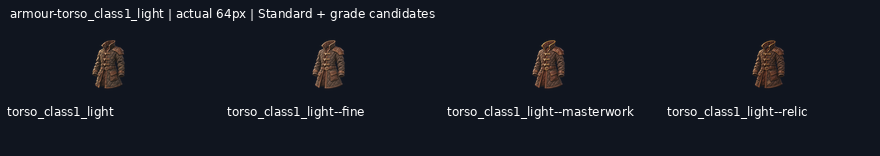
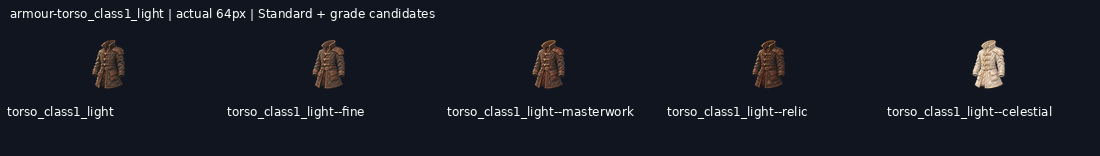
art: draw armour-torso_class1_light--celestial grade candidate

diff --git a/art/_archive/gear/2026-11-19-kept-blade-grades/HANDOFF.md b/art/_archive/gear/2026-11-19-kept-blade-grades/HANDOFF.md
@@ -1,9 +1,9 @@
 # Kept-blade grade candidates
 
-**64/120 grade candidates delivered** on `art/2026-11-19-kept-blade-grades`. Shared mailbox: https://github.com/leonpentastorm/Project-Heaven-Cry/issues/3 . See claim.json for this lane’s current Standards. Released overlapping blades reuse12 peer candidates, with3 local alternatives archived.
+**65/120 grade candidates delivered** on `art/2026-11-19-kept-blade-grades`. Shared mailbox: https://github.com/leonpentastorm/Project-Heaven-Cry/issues/3 . See claim.json for this lane’s current Standards. Released overlapping blades reuse12 peer candidates, with3 local alternatives archived.
 
 Leon requested continuous candidate production; proof approval is not fabricated. All candidates remain review-candidate, production_approved:false, implementation_ready:false, with outline.review_required:true. Exact outline is measured, never asserted unless the masks match. Per-image registration is uniform scaling/translation only, without warp, silhouette masks, filled pixels or code-drawn substitutes. The generated native remains untouched.
 
 Each image is generated, shown, technically exported, validated, committed and pushed before the next. Sources, versioned masters, exact prompts/reference hashes,256/128/64/32 exports and grade comparison sheets are retained. Standards and earlier deliveries are unchanged. This sparse checkout cannot validate omitted historical files; full-library validation/build is an integration check on a full checkout.
 
-Remaining: weapon-ork_machete--masterwork, weapon-ork_machete--relic, weapon-ork_machete--celestial, weapon-war_axe--fine, weapon-war_axe--masterwork, weapon-war_axe--relic, weapon-war_axe--celestial, armour-torso_class1_light--celestial, armour-torso_class2_medium--fine, armour-torso_class2_medium--masterwork, armour-torso_class2_medium--relic, armour-torso_class2_medium--celestial, armour-torso_class3_heavy--fine, armour-torso_class3_heavy--masterwork, armour-torso_class3_heavy--relic, armour-torso_class3_heavy--celestial, armour-torso_class4_assault--fine, armour-torso_class4_assault--masterwork, armour-torso_class4_assault--relic, armour-torso_class4_assault--celestial, armour-torso_class5_juggernaut--fine, armour-torso_class5_juggernaut--masterwork, armour-torso_class5_juggernaut--relic, armour-torso_class5_juggernaut--celestial, armour-padded_undershirt--fine, armour-padded_undershirt--masterwork, armour-padded_undershirt--relic, armour-padded_undershirt--celestial, armour-trauma_plate--fine, armour-trauma_plate--masterwork, armour-trauma_plate--relic, armour-trauma_plate--celestial, armour-runner_trousers--fine, armour-runner_trousers--masterwork, armour-runner_trousers--relic, armour-runner_trousers--celestial, armour-armoured_greaves--fine, armour-armoured_greaves--masterwork, armour-armoured_greaves--relic, armour-armoured_greaves--celestial, armour-work_gloves--fine, armour-work_gloves--masterwork, armour-work_gloves--relic, armour-work_gloves--celestial, armour-combat_gloves--fine, armour-combat_gloves--masterwork, armour-combat_gloves--relic, armour-combat_gloves--celestial, armour-field_boots--fine, armour-field_boots--masterwork, armour-field_boots--relic, armour-field_boots--celestial, armour-heavy_boots--fine, armour-heavy_boots--masterwork, armour-heavy_boots--relic, armour-heavy_boots--celestial.
+Remaining: weapon-ork_machete--masterwork, weapon-ork_machete--relic, weapon-ork_machete--celestial, weapon-war_axe--fine, weapon-war_axe--masterwork, weapon-war_axe--relic, weapon-war_axe--celestial, armour-torso_class2_medium--fine, armour-torso_class2_medium--masterwork, armour-torso_class2_medium--relic, armour-torso_class2_medium--celestial, armour-torso_class3_heavy--fine, armour-torso_class3_heavy--masterwork, armour-torso_class3_heavy--relic, armour-torso_class3_heavy--celestial, armour-torso_class4_assault--fine, armour-torso_class4_assault--masterwork, armour-torso_class4_assault--relic, armour-torso_class4_assault--celestial, armour-torso_class5_juggernaut--fine, armour-torso_class5_juggernaut--masterwork, armour-torso_class5_juggernaut--relic, armour-torso_class5_juggernaut--celestial, armour-padded_undershirt--fine, armour-padded_undershirt--masterwork, armour-padded_undershirt--relic, armour-padded_undershirt--celestial, armour-trauma_plate--fine, armour-trauma_plate--masterwork, armour-trauma_plate--relic, armour-trauma_plate--celestial, armour-runner_trousers--fine, armour-runner_trousers--masterwork, armour-runner_trousers--relic, armour-runner_trousers--celestial, armour-armoured_greaves--fine, armour-armoured_greaves--masterwork, armour-armoured_greaves--relic, armour-armoured_greaves--celestial, armour-work_gloves--fine, armour-work_gloves--masterwork, armour-work_gloves--relic, armour-work_gloves--celestial, armour-combat_gloves--fine, armour-combat_gloves--masterwork, armour-combat_gloves--relic, armour-combat_gloves--celestial, armour-field_boots--fine, armour-field_boots--masterwork, armour-field_boots--relic, armour-field_boots--celestial, armour-heavy_boots--fine, armour-heavy_boots--masterwork, armour-heavy_boots--relic, armour-heavy_boots--celestial.
